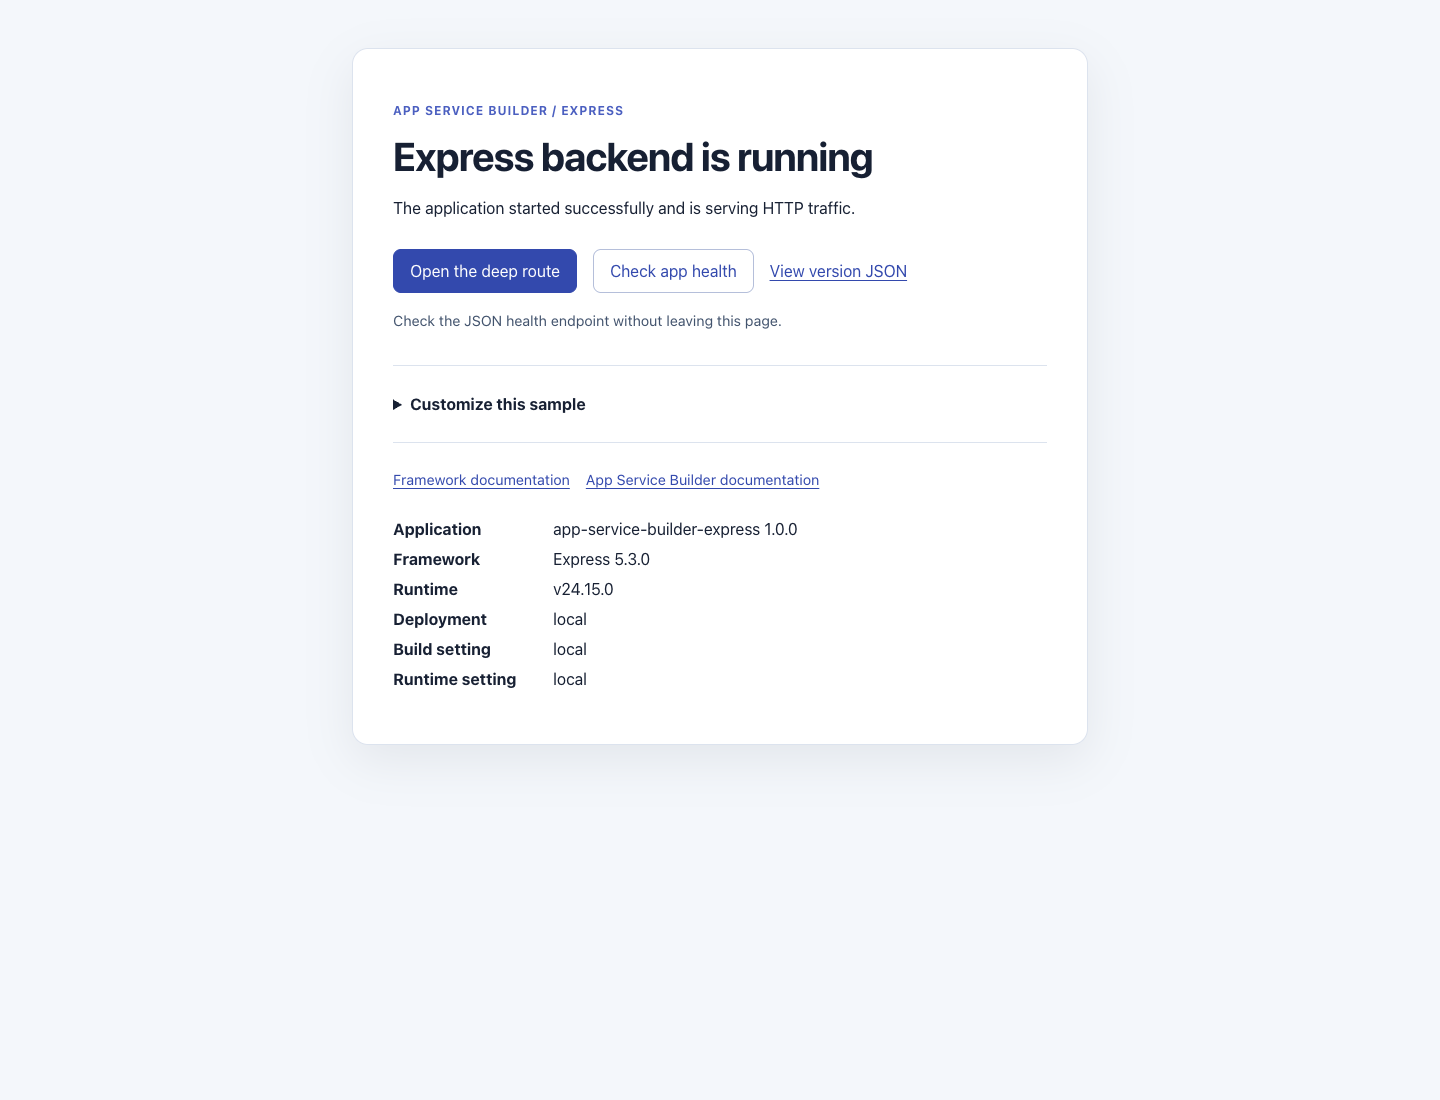
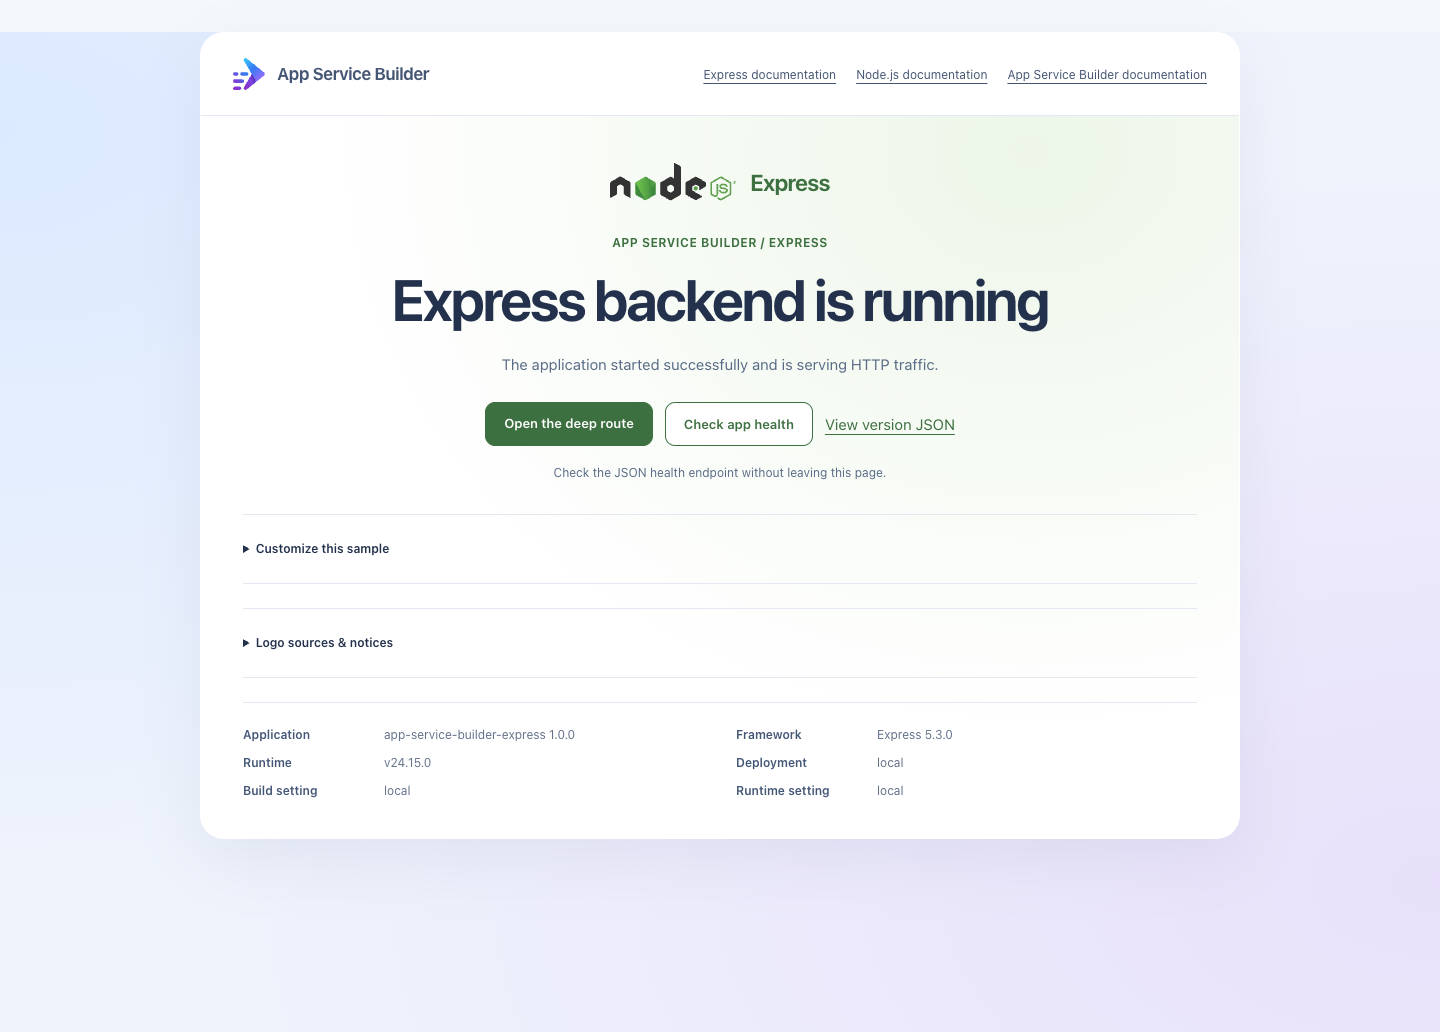
Apply approved language-family sample styling
Preserve sample interactions, inline health checks and honest customization guidance; refresh the locally rendered README screenshot.

diff --git a/public/brand/family.v1.css b/public/brand/family.v1.css
@@ -1,0 +1,37 @@
+html body{margin:0;min-height:100vh;background:radial-gradient(ellipse at 0 10%,#dceaff,transparent 60%),radial-gradient(ellipse at 100% 85%,#e8e0fa,transparent 60%),#eff3fc;color:#23314c;font-family:"Segoe UI",system-ui,sans-serif;font-size:15px;--accent:#3d7040;--line:#e4e8f2}
+main.sample-sheet{width:min(1040px,calc(100% - 64px));margin:32px auto;padding:0;background:#fff;border:1px solid #ffffffbd;border-radius:24px;box-shadow:0 22px 65px #3b487515;overflow:hidden}
+.sample-header{display:flex;align-items:center;justify-content:space-between;gap:24px;padding:25px 32px;border-bottom:1px solid var(--line)}
+.sample-brand{display:flex;align-items:center;gap:12px;font-size:17px;font-weight:650;letter-spacing:-.02em;color:#23314c;text-decoration:none}
+.sample-brand img{width:32px;height:32px;object-fit:contain}
+.sample-header nav{display:flex;flex-wrap:wrap;gap:20px;margin:0;font-size:12px}
+.sample-header a{color:#455674;text-underline-offset:4px}
+.sample-content{padding:40px 42px}
+.ecosystem-logo{display:flex;align-items:center;gap:14px;margin-bottom:24px;color:var(--accent);font-size:23px;font-weight:650;letter-spacing:-.03em}
+.ecosystem-logo img{width:52px;height:52px;object-fit:contain}
+.ecosystem-logo img.wordmark{width:126px}
+.sample-content h1{font-size:clamp(32px,4.4vw,58px);line-height:1.09;letter-spacing:-.04em;font-weight:650;margin:0 0 20px;text-wrap:balance}
+.sample-content h2{font-size:18px;font-weight:650;letter-spacing:-.02em;margin:0 0 14px}
+.sample-content p{line-height:1.8;color:#596b86}
+.sample-content .eyebrow{color:var(--accent);font-size:12px;font-weight:650;letter-spacing:.04em;margin:0 0 14px}
+.sample-content nav{display:flex;flex-wrap:wrap;align-items:center;gap:12px;margin:24px 0 16px}
+.sample-content a{color:var(--accent);text-underline-offset:4px}
+.sample-content button,.sample-content .button{min-height:44px;padding:12px 18px;border:1px solid var(--accent);border-radius:10px;background:var(--accent);color:#fff;font:inherit;font-size:13px;font-weight:600;text-decoration:none;cursor:pointer}
+.sample-content button.secondary{background:#fff;color:var(--accent)}
+.sample-content button:hover,.sample-content .button:hover{filter:brightness(.92)}
+.sample-content button:disabled{opacity:.6;cursor:wait}
+.sample-content .health-result{font-size:12px;line-height:1.8;min-height:24px}
+.sample-content dl{display:grid;gap:13px;margin:24px 0 0;padding-top:24px;border-top:1px solid var(--line);font-size:12px}
+.sample-content dl div{display:grid;grid-template-columns:125px 1fr;gap:16px;text-align:left}
+.sample-content dt{color:#435675;font-weight:600}
+.sample-content dd{margin:0;color:#62718a;overflow-wrap:anywhere}
+.sample-content details{margin-top:24px;padding:12px 0;border-block:1px solid var(--line);font-size:12px;text-align:left}
+.sample-content summary{cursor:pointer;font-weight:600;min-height:44px;align-content:center}
+.sample-content code{font-size:12px;overflow-wrap:anywhere}
+.sample-content .documentation{font-size:12px;justify-content:space-between}
+a:focus-visible,button:focus-visible,summary:focus-visible{outline:3px solid #7660d0;outline-offset:4px}
+.sample-content{text-align:center;background:radial-gradient(ellipse at 80% 5%,#edf6e9,transparent 60%),#fff}
+.ecosystem-logo{justify-content:center}
+.sample-content>p:not(.eyebrow):not(.health-result){max-width:48ch;margin-inline:auto}
+.sample-content nav{justify-content:center}
+.sample-content dl{grid-template-columns:1fr 1fr;column-gap:32px}
+@media(max-width:650px){main.sample-sheet{width:calc(100% - 30px);margin:18px auto;border-radius:19px}.sample-header{padding:22px;flex-wrap:wrap;gap:18px}.sample-header nav{width:100%;justify-content:space-between;gap:12px;font-size:11px}.sample-content{padding:32px 22px}.sample-content h1{font-size:36px}.sample-content dl{grid-template-columns:1fr}.sample-content dl div{grid-template-columns:1fr;gap:4px}.sample-content nav{align-items:stretch}.sample-content .documentation{gap:14px}}

diff --git a/src/app.js b/src/app.js
@@ -4,6 +4,7 @@ import packageJson from "../package.json" with { type: "json" };
 
 const frameworkVersion = packageJson.dependencies.express;
 const publicDirectory = fileURLToPath(new URL("../public", import.meta.url));
+const familyStylesheet = fileURLToPath(new URL("../public/brand/family.v1.css", import.meta.url));
 
 function deploymentInfo() {
   return {
@@ -27,10 +28,21 @@ function page(title, content) {
     <meta name="viewport" content="width=device-width, initial-scale=1">
     <title>${title}</title>
     <link rel="stylesheet" href="/assets/styles.v2.css">
+    <link rel="stylesheet" href="/assets/brand/family.v1.css">
     <script type="module" src="/assets/health.v1.js"></script>
   </head>
   <body>
-    <main>
+    <main class="sample-sheet">
+      <header class="sample-header">
+        <a class="sample-brand" href="/"><img src="/assets/brand/builder.svg" alt="" width="32" height="32">App Service Builder</a>
+        <nav aria-label="Documentation">
+          <a href="https://expressjs.com/">Express documentation</a>
+          <a href="https://nodejs.org/en/docs">Node.js documentation</a>
+          <a href="https://builder.appservice.azure.com/docs/">App Service Builder documentation</a>
+        </nav>
+      </header>
+      <div class="sample-content">
+      <div class="ecosystem-logo"><img class="wordmark" src="/assets/brand/nodejs.svg" alt="Node.js" width="126" height="52"><span>Express</span></div>
       <p class="eyebrow">App Service Builder / Express</p>
       <h1>${title}</h1>
       ${content}
@@ -42,6 +54,7 @@ function page(title, content) {
         <div><dt>Build setting</dt><dd>${info.buildMarker}</dd></div>
         <div><dt>Runtime setting</dt><dd>${info.runtimeMarker}</dd></div>
       </dl>
+      </div>
     </main>
   </body>
 </html>`;
@@ -53,7 +66,12 @@ export function createApp() {
   app.disable("x-powered-by");
   app.use("/assets", express.static(publicDirectory, {
     immutable: true,
-    maxAge: "1y"
+    maxAge: "1y",
+    setHeaders(response, path) {
+      if (path === familyStylesheet) {
+        response.setHeader("Cache-Control", "public, max-age=0, must-revalidate");
+      }
+    }
   }));
 
   app.get("/", (_request, response) => {
@@ -69,13 +87,16 @@ export function createApp() {
       <details>
         <summary>Customize this sample</summary>
         <p>In your fork, edit the home page title and content in <code>src/app.js</code>
-        and the styles in <code>public/styles.v2.css</code>. Commit your changes and
+        and the visual-family styles in <code>public/brand/family.v1.css</code>. Commit your changes and
         deploy your fork through your Builder App.</p>
       </details>
-      <nav class="documentation" aria-label="Documentation">
-        <a href="https://expressjs.com/">Framework documentation</a>
-        <a href="https://builder.appservice.azure.com/docs/">App Service Builder documentation</a>
-      </nav>`
+      <details>
+        <summary>Logo sources &amp; notices</summary>
+        <p>Unmodified <a href="https://nodejs.org/en/about/branding">Node.js artwork</a>
+        identifies the runtime used by Express. Node.js is a trademark of the OpenJS Foundation;
+        <a href="https://trademark-policy.openjsf.org/">trademark policy</a>.
+        App Service Builder uses its supplied official mark. No endorsement implied.</p>
+      </details>`
     ));
   });
 

diff --git a/test/app.test.js b/test/app.test.js
@@ -38,11 +38,14 @@ test("root actions keep health inline and customization local", async () => {
   assert.match(html, /role="status"/);
   assert.match(html, /<summary>Customize this sample<\/summary>/);
   assert.match(html, /In your fork/);
-  assert.match(html, /href="https:\/\/expressjs.com\/">Framework documentation/);
+  assert.match(html, /href="https:\/\/expressjs.com\/">Express documentation/);
+  assert.match(html, /href="https:\/\/nodejs.org\/en\/docs">Node.js documentation/);
   assert.match(html, /href="https:\/\/builder.appservice.azure.com\/docs\/">App Service Builder documentation/);
-  for (const asset of ["/assets/styles.v2.css", "/assets/health.v1.js"]) {
+  for (const asset of ["/assets/styles.v2.css", "/assets/health.v1.js", "/assets/brand/family.v1.css", "/assets/brand/builder.svg", "/assets/brand/nodejs.svg"]) {
     assert.ok(html.includes(asset));
-    assert.equal((await fetch(`${baseUrl}${asset}`)).status, 200);
+    const response = await fetch(`${baseUrl}${asset}`);
+    assert.equal(response.status, 200);
+    assert.ok((await response.arrayBuffer()).byteLength > 0);
   }
 });
 
@@ -75,6 +78,14 @@ test("inline health verifies the app and recovers from failure", async () => {
     assert.equal(button.disabled, false);
     assert.match(result.textContent, expected);
   }
+});
+
+test("revalidates the editable family stylesheet after redeployment", async () => {
+  const stylesheet = await fetch(`${baseUrl}/assets/brand/family.v1.css`);
+  assert.equal(stylesheet.status, 200);
+  assert.match(stylesheet.headers.get("content-type"), /text\/css/);
+  assert.equal(stylesheet.headers.get("cache-control"), "public, max-age=0, must-revalidate");
+  assert.ok(stylesheet.headers.get("etag"));
 });
 
 test("reports health and deployment identity", async () => {

diff --git a/README.md b/README.md
@@ -16,8 +16,21 @@ local tests do not establish cloud deployment success or regional availability.
 
 ![Express root page with sample actions, inline health feedback, customization help, and local application details](docs/images/sample.png)
 
-Rendered locally at `/` with sample settings. This screenshot is not evidence of
+**LOCAL — Microsoft Edge, 1440px desktop, root `/`.** Rendered with sample settings. This screenshot is not evidence of
 an Azure deployment.
+
+The daylight surface keeps Express's server-rendered route and real inline health
+check. Edit `src/app.js` for content and `public/brand/family.v1.css` for the visual
+family; existing baseline styles remain in `public/styles.v2.css`.
+
+### Logo provenance
+
+`public/brand/builder.svg` is the supplied official App Service Builder mark.
+`public/brand/nodejs.svg` is the unmodified [official dark horizontal Node.js SVG](https://nodejs.org/static/logos/nodejsDark.svg),
+identifying Express's Node.js runtime, not an Express logo. Node.js is a trademark
+of the OpenJS Foundation; see [branding](https://nodejs.org/en/about/branding) and
+[trademark policy](https://trademark-policy.openjsf.org/). Logos identify the stack;
+no endorsement is implied.
 
 **Check app health** reads this app's `/health` JSON endpoint and displays the
 result in place, including failures and retry guidance. It does not report Azure
